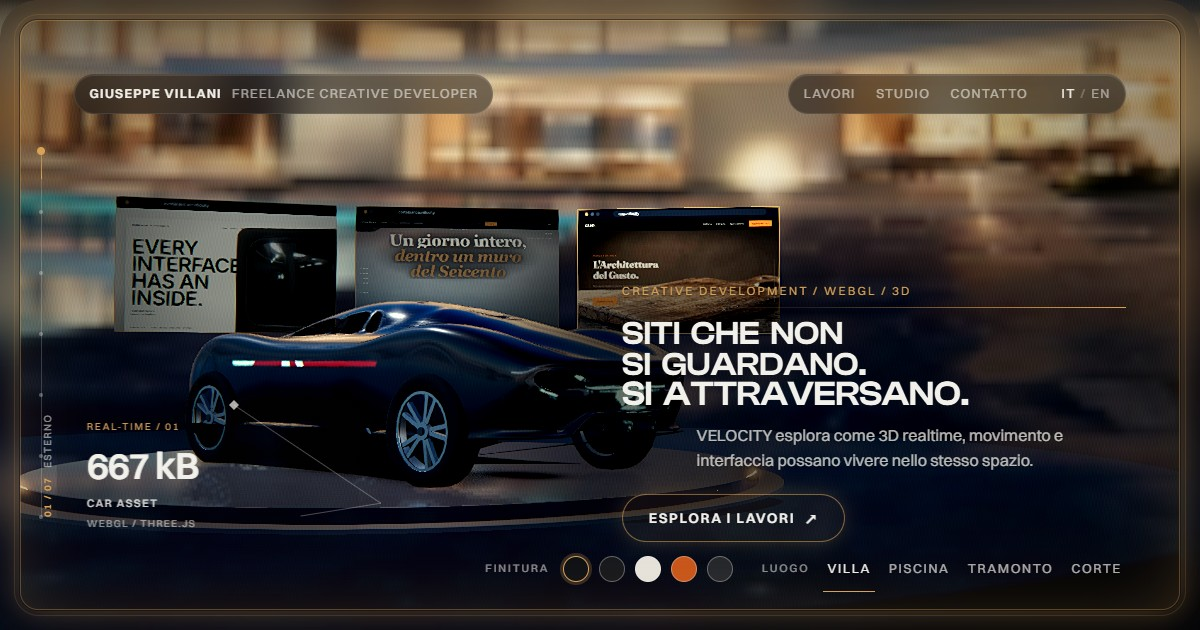
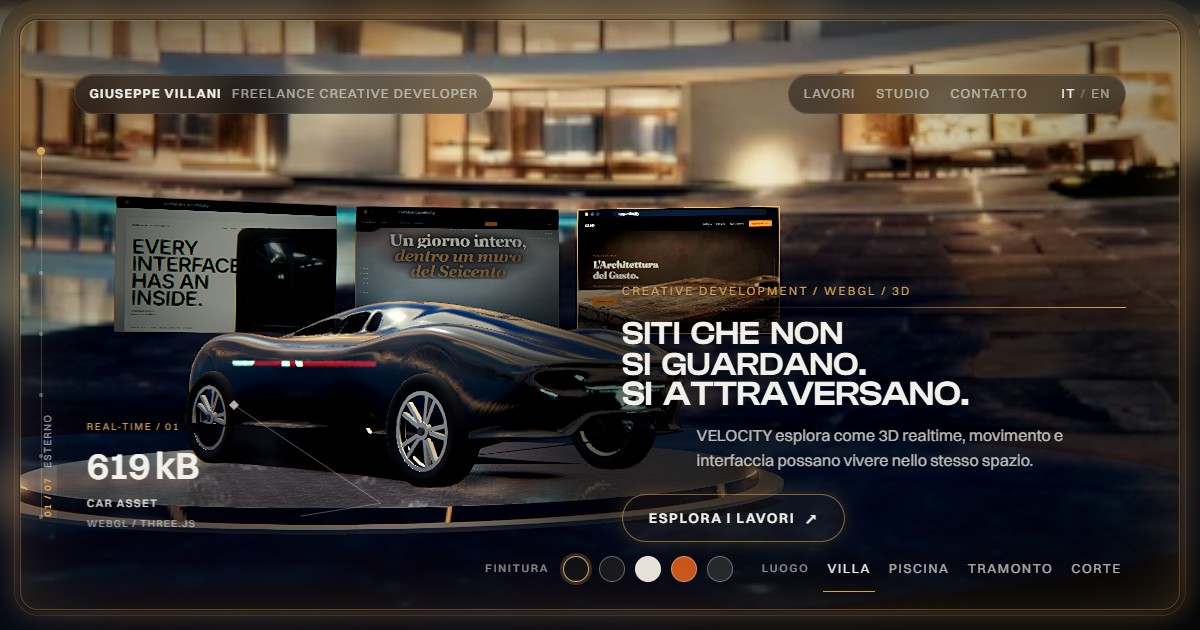
La volta e il rimando da terra: l'ambiente non aveva niente sopra ne' sotto
Due segnalazioni del committente che sembravano scollegate — «il bianco e'
a meta'» sulla vernice chiara, e «ancora senza raggi» sui cerchi — sono lo
stesso difetto: nella mappa d'ambiente c'erano solo strisce STRETTE e
bandiere nere. Niente di largo sopra, niente sotto il livello del mozzo.

Cosi' le superfici rivolte in alto non hanno niente da restituire: di notte
specchiano il cielo nero del panorama e diventano buie. Sulla vernice
chiara il tetto restava scuro mentre i fianchi erano bianchi. E un metallo
dentro un passaruota puo' solo restituire un ambiente che non c'e': il
cerchio posteriore misurava (3, 3, 3) con contrasto p5-p95 di CINQUE —
nero piatto, zero informazione.

LA VOLTA e' il soffitto bianco di uno studio fotografico: larga e debole
(0,16 della forza), non fa nessun colpo di luce e senza non si vede
niente. IL RIMANDO DA TERRA e' il pavimento bagnato che manda su: un
cerchio in alluminio, anche di notte in un cortile, riceve luce DA SOTTO.

MISURATO sul poster nuovo, contro la linea di base di una revisione
esterna fatta prima del fix delle strisce:
                          prima     ora
  fiancata luma              19      25
  spalla / tetto             61      67
  cerchio anteriore          20      66
  cerchio posteriore          3      46   (contrasto da 5 a 131)
  B/G della fiancata       2,30    1,22
E `carrozzeria.mjs`: mediana 100,6 con scuri al 6,4% sul beat orbita,
[…]

diff --git a/src/scene/Panorama.ts b/src/scene/Panorama.ts
@@ -300,6 +300,48 @@ export function ambienteConStrisce(
      Sono nere per davvero: `MeshBasicMaterial` a zero, `toneMapped: false`.
      Un nero passato per la curva ACES si schiarirebbe, e una bandiera grigia
      non stacca da un ambiente gia' scuro. */
+  /* LA VOLTA — una sorgente LARGA e DEBOLE sopra, che non c'era.
+     Nella mappa d'ambiente c'erano solo strisce strette e bandiere nere. Va
+     bene per disegnare le righe speculari sulla fiancata, ma lascia le
+     superfici rivolte in ALTO senza niente da restituire: di notte specchiano
+     il cielo nero del panorama, e diventano buie.
+     Si vede in due punti, e il committente li ha segnalati tutti e due senza
+     collegarli: sulla vernice CHIARA il tetto resta scuro mentre i fianchi
+     sono bianchi — «il bianco e' a meta'» — e dentro il passaruota i cerchi
+     spariscono, perche' un metallo li' puo' solo restituire un ambiente che
+     non c'e' — «ancora senza raggi».
+     E' la stessa cosa che in uno studio fotografico e' il soffitto bianco:
+     non fa nessun colpo di luce, e senza non si vede niente.
+     LARGA E DEBOLE, non stretta e forte: a 0,16 della forza non compete con
+     le strisce e non appiattisce il nero — alza il fondo, che e' cio' che
+     serve. Una sorgente stretta e forte darebbe un secondo riflesso e
+     toglierebbe alle righe il loro contrasto. */
+  const volta = new MeshBasicMaterial({ color: 0xdfe8f5, toneMapped: false, side: DoubleSide })
+  volta.color.multiplyScalar(forza * 0.16)
+  const cielo = new Mesh(new PlaneGeometry(16, 12), volta)
+  cielo.position.set(0, 5.4, 0)
+  cielo.rotation.x = Math.PI / 2
+  s.add(cielo)
+
+  /* IL RIMANDO DA TERRA — una striscia bassa, sotto il livello del mozzo.
+     Nell'ambiente non c'era NIENTE sotto l'asse delle ruote, e si vedeva in un
+     punto solo ma preciso: il cerchio posteriore misurava (3, 3, 3) con un
+     contrasto p5-p95 di CINQUE. Non scuro: nero piatto, zero informazione.
+     Un cerchio in alluminio, anche di notte in un cortile, riceve luce DA
+     SOTTO — il pavimento bagnato rimanda su. Senza quella sorgente un metallo
+     dentro un passaruota puo' solo restituire il buio, e nessuna manopola del
+     materiale lo cambia: e' l'ambiente a non avere niente da dare.
+     Calda e bassa, perche' e' il riflesso della pietra del podio e della corte
+     illuminata, non una seconda luce. */
+  const daTerra = new MeshBasicMaterial({ color: 0xffcf9e, toneMapped: false, side: DoubleSide })
+  daTerra.color.multiplyScalar(forza * 0.30)
+  for (const lato of [-1, 1]) {
+    const rimando = new Mesh(new PlaneGeometry(9, 1.1), daTerra)
+    rimando.position.set(lato * 2.5, 0.12, 0)
+    rimando.rotation.set(-Math.PI / 2 - lato * 0.30, 0, Math.PI / 2)
+    s.add(rimando)
+  }
+
   const bandiera = new MeshBasicMaterial({ color: 0x000000, toneMapped: false , side: DoubleSide })
   for (const lato of [-1, 1]) {
     for (const [dy, largo] of [[-0.62, 0.42], [0.62, 0.42]] as Array<[number, number]>) {
@@ -324,6 +366,8 @@ export function ambienteConStrisce(
   fredda.dispose()
   contorno.dispose()
   bandiera.dispose()
+  volta.dispose()
+  daTerra.dispose()
   return env
 }
 
@@ -482,7 +526,12 @@ export async function montaPanorama(
      l'unica cosa che rendeva fotografica la scena. La sfocatura deve staccare
      il soggetto, non cancellare cio' da cui lo stacca — il colonnato deve
      restare leggibile come colonnato. */
-  scena.backgroundBlurriness = 0.055
+/* 0,035 E NON 0,055. A 0,055 la villa perdeva l'architettura: non si
+     distinguevano piu' i piani, le finestre, le palme. Una sfocatura troppo
+     forte legge come VETRO SMERIGLIATO, non come fuori fuoco — la sfocatura di
+     un obiettivo allarga i bordi ma ne conserva la struttura. Il bersaglio e'
+     «morbida ma leggibile»: si deve capire che e' una villa. */
+  scena.backgroundBlurriness = 0.035
   scena.environmentIntensity = 1.0
   /* NON TORNA PIU' LA FOTOGRAFIA. Tornava il fondo, e adesso quando questa
      funzione finisce il fondo non e' ancora arrivato: chi lo volesse dovrebbe
